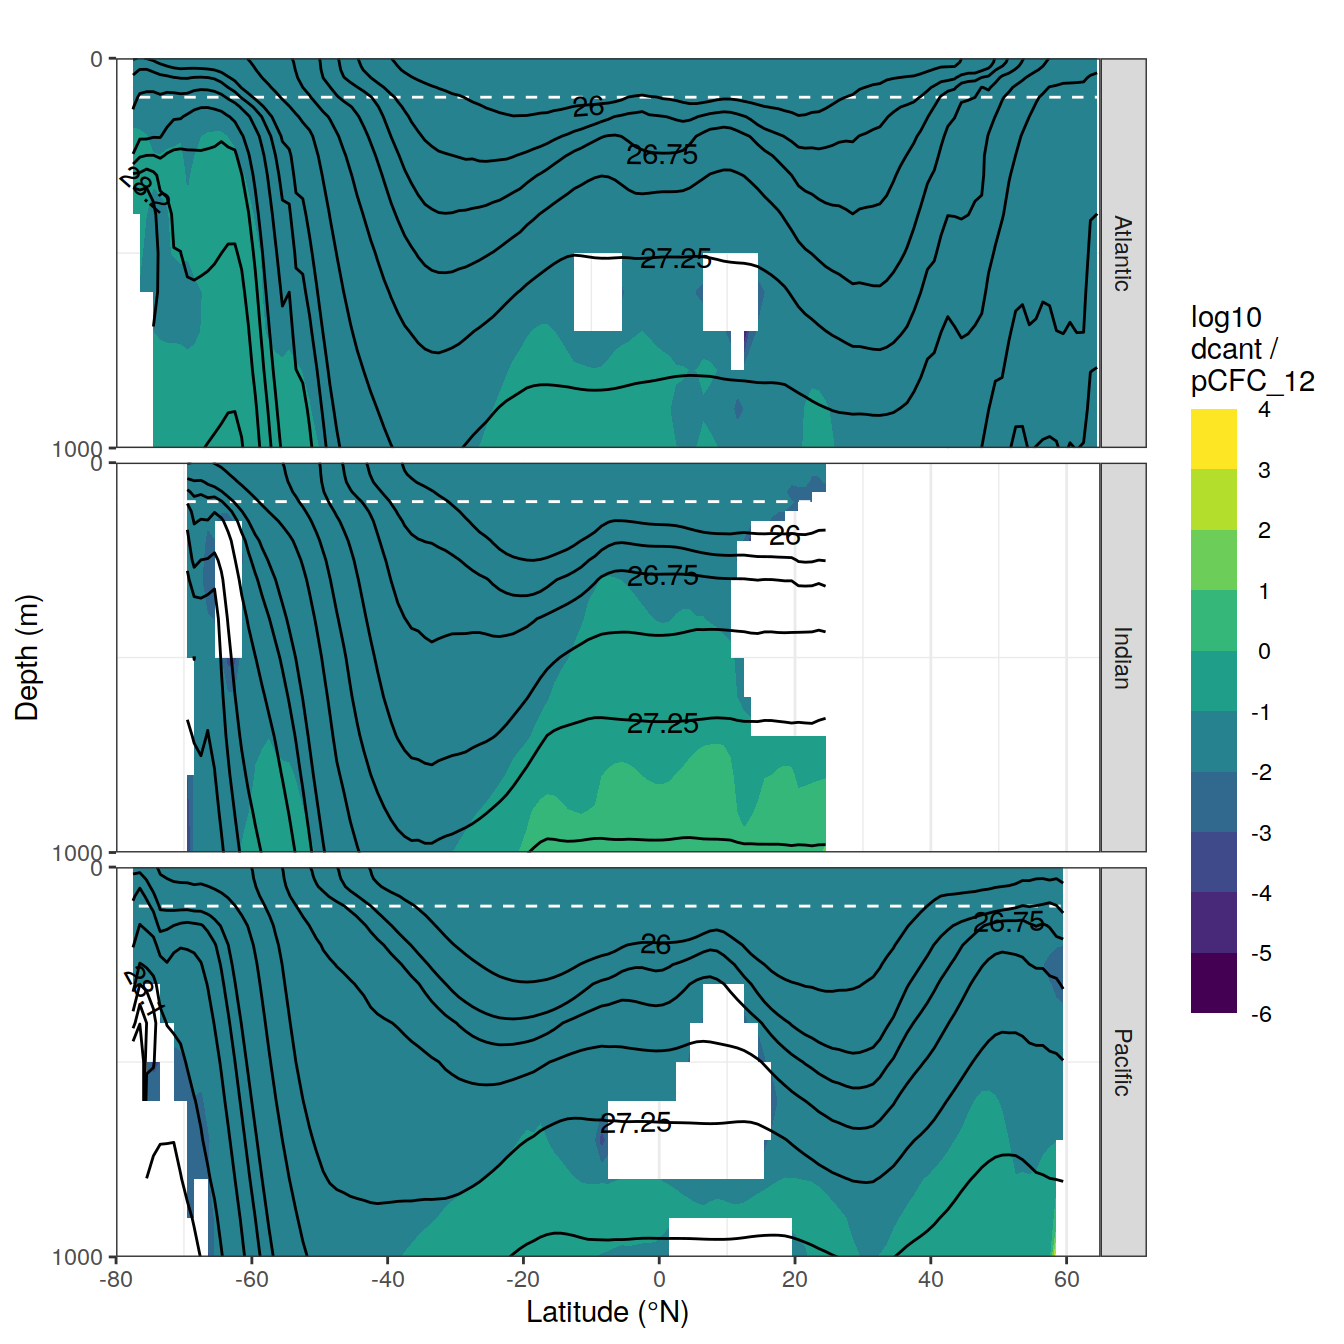
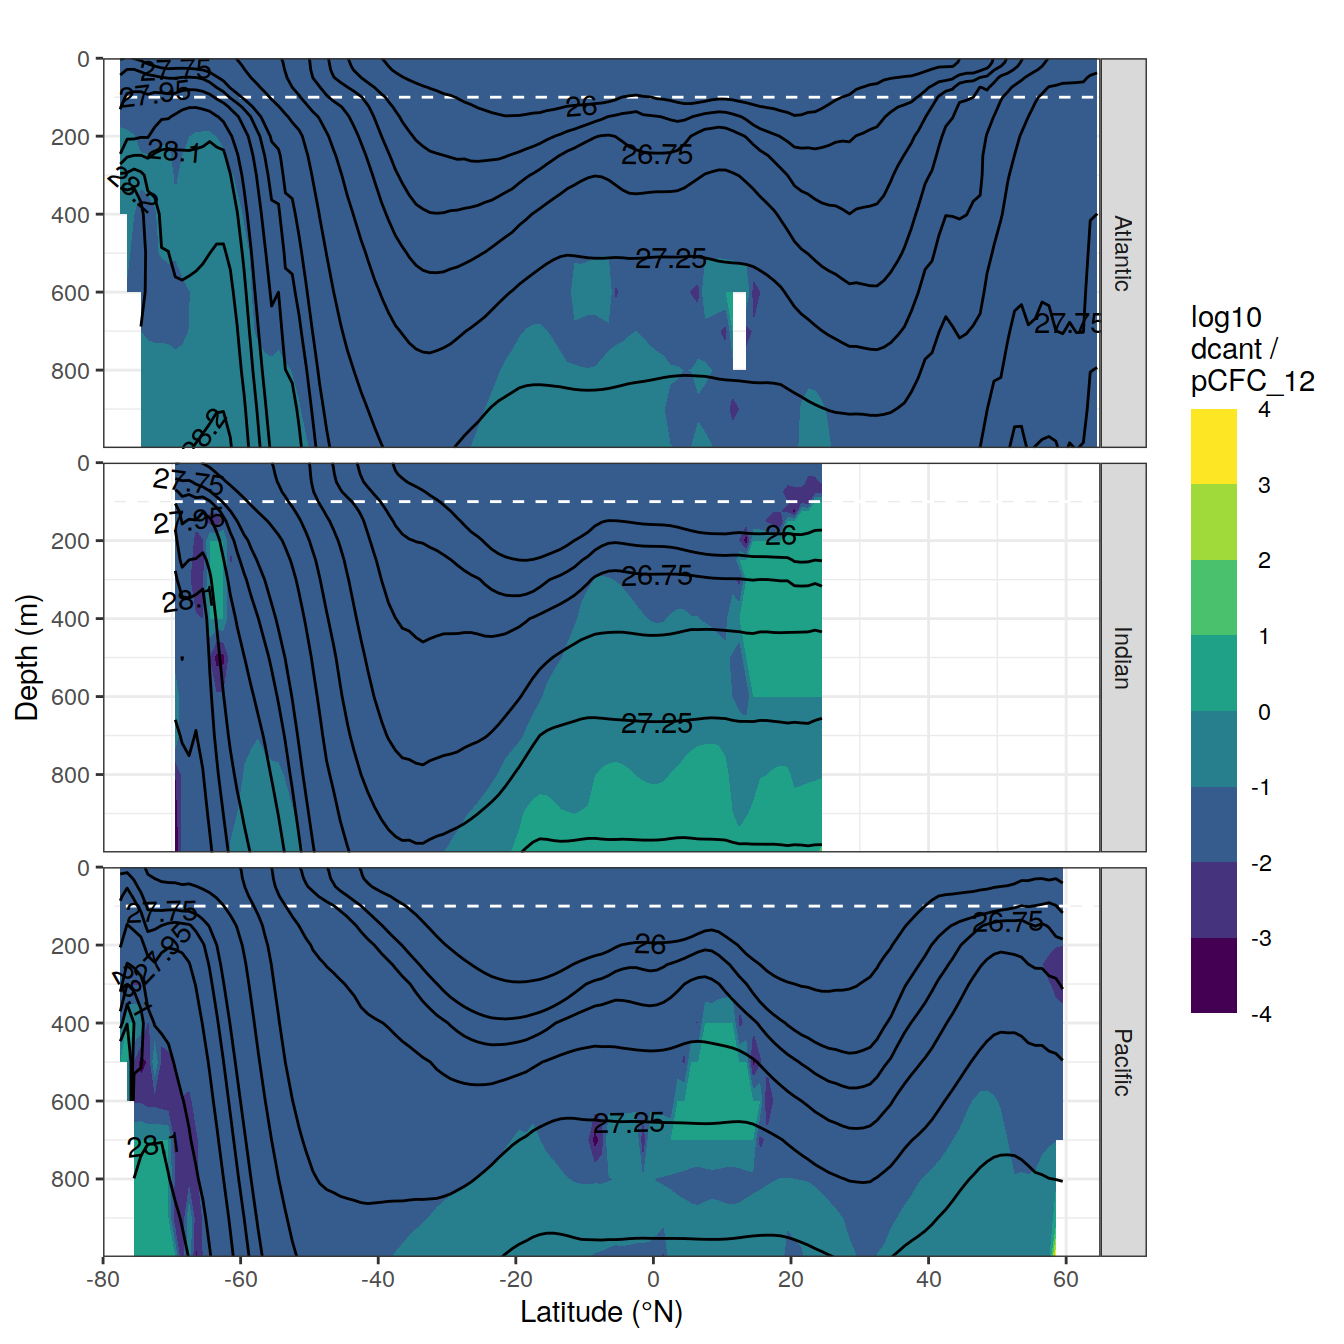
Build site.

diff --git a/docs/tracers_GLODAPv2_2021.html b/docs/tracers_GLODAPv2_2021.html
@@ -575,16 +575,16 @@ This reproducible <a href="http://rmarkdown.rstudio.com">R Markdown</a> analysis
 <div class="panel panel-default">
 <div class="panel-heading">
 <p class="panel-title">
-<a data-toggle="collapse" data-parent="#workflowr-checks" href="#strongRepositoryversionstrongahrefhttpsgithubcomjensdanielmuelleremlrobsvXXXtreef8016ab3b41a6f89543cc951fd9cb05f5c4dc0ectargetblankf8016aba"> <span class="glyphicon glyphicon-ok text-success" aria-hidden="true"></span> <strong>Repository version:</strong> <a href="https://github.com/jens-daniel-mueller/emlr_obs_v_XXX/tree/f8016ab3b41a6f89543cc951fd9cb05f5c4dc0ec" target="_blank">f8016ab</a> </a>
+<a data-toggle="collapse" data-parent="#workflowr-checks" href="#strongRepositoryversionstrongahrefhttpsgithubcomjensdanielmuelleremlrobsvXXXtree52e894d5c6baa4516660e31a2bee22699b3b0813targetblank52e894da"> <span class="glyphicon glyphicon-ok text-success" aria-hidden="true"></span> <strong>Repository version:</strong> <a href="https://github.com/jens-daniel-mueller/emlr_obs_v_XXX/tree/52e894d5c6baa4516660e31a2bee22699b3b0813" target="_blank">52e894d</a> </a>
 </p>
 </div>
[2 lines of base64/hex data omitted]
 <div class="panel-body">
 <p>
 Great! You are using Git for version control. Tracking code development and connecting the code version to the results is critical for reproducibility.
 </p>
 <p>
-The results in this page were generated with repository version <a href="https://github.com/jens-daniel-mueller/emlr_obs_v_XXX/tree/f8016ab3b41a6f89543cc951fd9cb05f5c4dc0ec" target="_blank">f8016ab</a>. See the <em>Past versions</em> tab to see a history of the changes made to the R Markdown and HTML files.
+The results in this page were generated with repository version <a href="https://github.com/jens-daniel-mueller/emlr_obs_v_XXX/tree/52e894d5c6baa4516660e31a2bee22699b3b0813" target="_blank">52e894d</a>. See the <em>Past versions</em> tab to see a history of the changes made to the R Markdown and HTML files.
 </p>
 <p>
 Note that you need to be careful to ensure that all relevant files for the analysis have been committed to Git prior to generating the results (you can use <code>wflow_publish</code> or <code>wflow_git_commit</code>). workflowr only checks the R Markdown file, but you know if there are other scripts or data files that it depends on. Below is the status of the Git repository when the results were generated:
@@ -631,6 +631,40 @@ Message
 </tr>
 </thead>
 <tbody>
+<tr>
+<td>
+Rmd
+</td>
+<td>
+<a href="https://github.com/jens-daniel-mueller/emlr_obs_v_XXX/blob/52e894d5c6baa4516660e31a2bee22699b3b0813/analysis/tracers_GLODAPv2_2021.Rmd" target="_blank">52e894d</a>
+</td>
+<td>
+jens-daniel-mueller
+</td>
+<td>
+2021-11-12
+</td>
+<td>
+add zonal mean section of gridded dcant per CFC
+</td>
+</tr>
+<tr>
+<td>
+html
+</td>
+<td>
+<a href="https://rawcdn.githack.com/jens-daniel-mueller/emlr_obs_v_XXX/1b58f8e65653707e7dbdcabe7eb7dec9b82a2e5a/docs/tracers_GLODAPv2_2021.html" target="_blank">1b58f8e</a>
+</td>
+<td>
+jens-daniel-mueller
+</td>
+<td>
+2021-11-12
+</td>
+<td>
+Build site.
+</td>
+</tr>
 <tr>
 <td>
 Rmd
@@ -6779,10 +6813,20 @@ jens-daniel-mueller
 
 
 CFC_dcant_zonal &lt;- CFC_dcant_zonal %&gt;%
-  mutate(pCFC_12_mean_pos = if_else(pCFC_12_mean &lt; 0, 0, pCFC_12_mean),
-         dcant_mean_pos = if_else(dcant_mean &lt; 0, 0, dcant_mean),
-         dcant_per_CFC = dcant_mean_pos / pCFC_12_mean_pos,
-         dcant_per_CFC_log = log10(dcant_per_CFC))
+  mutate(
+    pCFC_12_mean_pos = if_else(pCFC_12_mean &lt; 0, 0, pCFC_12_mean),
+    dcant_mean_pos = if_else(dcant_mean &lt; 0, 0, dcant_mean),
+    dcant_per_CFC = dcant_mean_pos / pCFC_12_mean_pos,
+    dcant_per_CFC_log = log10(dcant_per_CFC)
+  ) %&gt;%
+  mutate(
+    dcant_per_CFC_log = if_else(dcant_mean_pos == 0,
+                            0,
+                            dcant_per_CFC_log),
+    dcant_per_CFC_log = if_else(pCFC_12_mean_pos == 0,
+                            max(dcant_per_CFC_log, na.rm = TRUE),
+                            dcant_per_CFC_log)
+  )
 
 
 CFC_dcant_zonal %&gt;%
@@ -6984,6 +7028,17 @@ Date
 <tbody>
 <tr>
 <td>
+<a href="https://github.com/jens-daniel-mueller/emlr_obs_v_XXX/blob/1b58f8e65653707e7dbdcabe7eb7dec9b82a2e5a/docs/figure/tracers_GLODAPv2_2021.Rmd/zonal_mean_sections-4.png" target="_blank">1b58f8e</a>
+</td>
+<td>
+jens-daniel-mueller
+</td>
+<td>
+2021-11-12
+</td>
+</tr>
+<tr>
+<td>
 <a href="https://github.com/jens-daniel-mueller/emlr_obs_v_XXX/blob/029c50af837eed95d99b546ced0d74eb7f98350e/docs/figure/tracers_GLODAPv2_2021.Rmd/zonal_mean_sections-4.png" target="_blank">029c50a</a>
 </td>
 <td>
@@ -7009,14 +7064,18 @@ jens-daniel-mueller
 </div>
 </div>
 <pre class="r"><code>CFC_dcant_zonal %&gt;%
+  filter(dcant_per_CFC_log &gt; -4) %&gt;%
   p_section_zonal_continous_depth(
     var = &quot;dcant_per_CFC_log&quot;,
     breaks = NULL,
     legend_title = &quot;log10\ndcant /\npCFC_12&quot;,
     title_text = NULL
   ) +
-  coord_cartesian(ylim = c(1000, 0),
-                  expand = 0) +
+  scale_y_reverse(
+    limits = c(1000, 0),
+    breaks = seq(0, 900, 200),
+    name = &quot;Depth (m)&quot;
+  ) +
   facet_grid(basin_AIP ~ .)</code></pre>
 <p><img src="figure/tracers_GLODAPv2_2021.Rmd/zonal_mean_sections-5.png" width="672" style="display: block; margin: auto;" /></p>
 <p>
@@ -7041,6 +7100,17 @@ Date
 </tr>
 </thead>
 <tbody>
+<tr>
+<td>
+<a href="https://github.com/jens-daniel-mueller/emlr_obs_v_XXX/blob/1b58f8e65653707e7dbdcabe7eb7dec9b82a2e5a/docs/figure/tracers_GLODAPv2_2021.Rmd/zonal_mean_sections-5.png" target="_blank">1b58f8e</a>
+</td>
+<td>
+jens-daniel-mueller
+</td>
+<td>
+2021-11-12
+</td>
+</tr>
 <tr>
 <td>
 <a href="https://github.com/jens-daniel-mueller/emlr_obs_v_XXX/blob/029c50af837eed95d99b546ced0d74eb7f98350e/docs/figure/tracers_GLODAPv2_2021.Rmd/zonal_mean_sections-5.png" target="_blank">029c50a</a>
